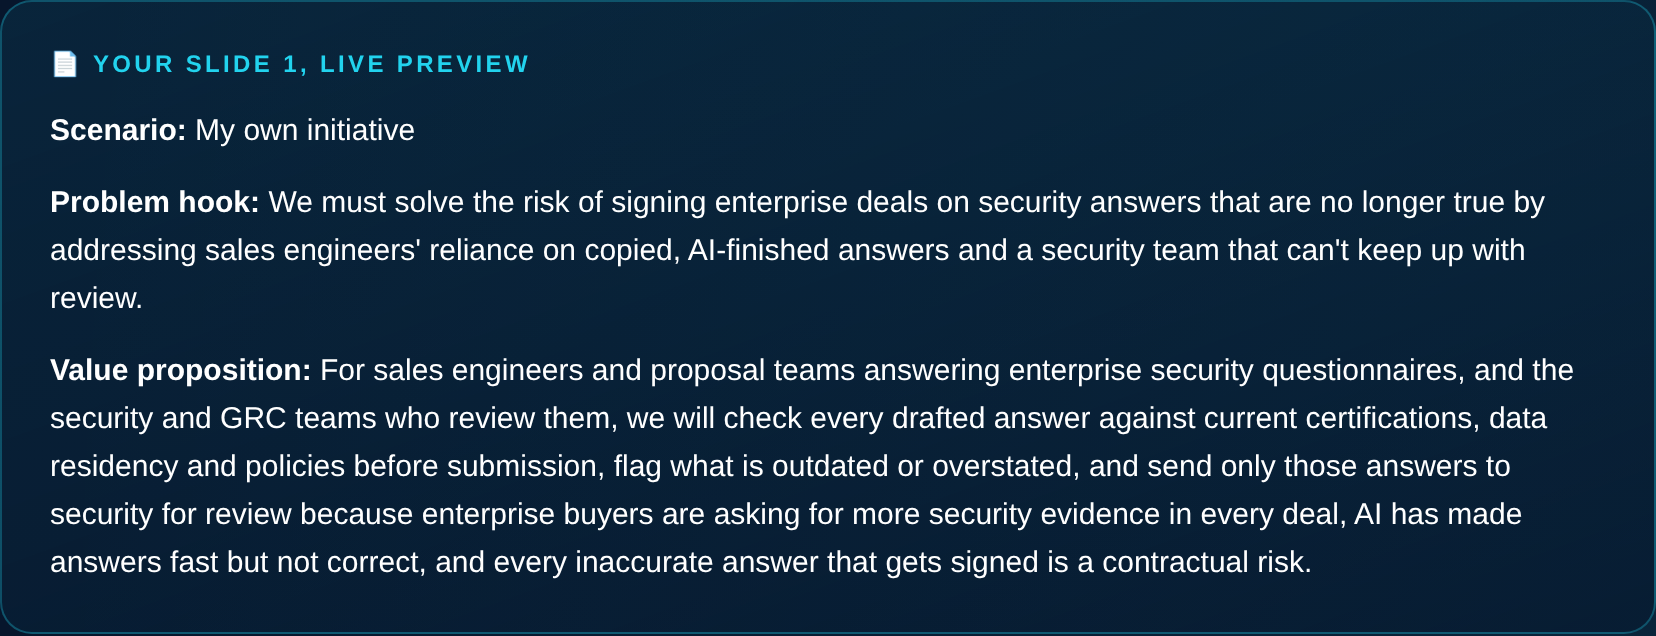
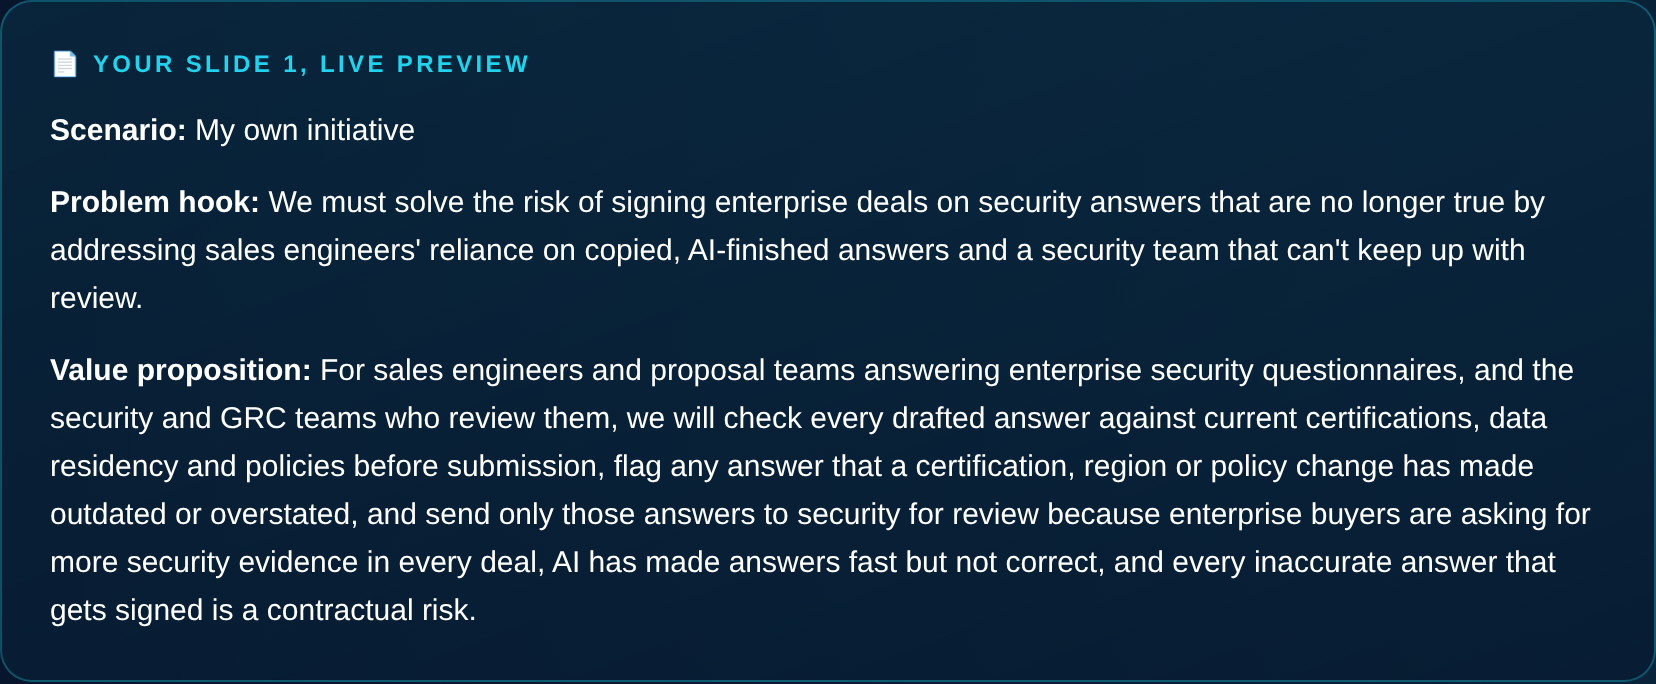
Module 1: sharpen differentiation against AI answer tools
Reframe the value proposition and cold-read answer around answers that a
certification, region or policy change has made stale, since AI answer
tools such as Conveyor already favour recent sources. Regenerate the
Exercise 2 guide export, Problem Hook Builder export and Slide 1 preview.

Claude-Session: https://claude.ai/code/session_01QMc48P4YbDKrGwoSAtmw3U

diff --git a/01-product-thinking/exercise-2-guide-export.md b/01-product-thinking/exercise-2-guide-export.md
@@ -5,9 +5,9 @@
 - **Strategic crisis, based on the brief, if the company does nothing for 12 months, what happens to its market position?:** If we do nothing for 12 months, the company will keep submitting security answers that were true last year: an expired certification scope, a data residency option still in beta, a policy that has since changed. Those answers become part of the contract. Enterprise buyers who find a mismatch in due diligence or audit slow the deal or walk away, a wrong answer that gets signed becomes legal exposure, and the security team spends more of its week reviewing sales paperwork than securing the product. Questionnaire turnaround becomes the slowest step in late-stage deals.
 - **Moment of misery, what is the user likely doing outside the product (Google, spreadsheets, a competitor) because your tool isn’t serving them?:** The user is currently forced to paste answers from a questionnaire done eight months ago and let an AI assistant fill the gaps on a 250-question questionnaire due Friday. For a dozen answers they aren't sure (is EU data residency live yet? does the SOC 2 report cover the new product?), so they post in the security team's Slack channel and wait days, because security is answering the same questions for five other deals. Under deadline, some answers go out unchecked.
 - **Problem hook, summarize the business risk and user pain into one urgent sentence.:** We must solve the risk of signing enterprise deals on security answers that are no longer true by addressing sales engineers' reliance on copied, AI-finished answers and a security team that can't keep up with review.
-- **Value proposition, based on the proposed initiative (Spotlight or Velocity), what is the new value and why is it urgent to launch now?:** For sales engineers and proposal teams answering enterprise security questionnaires, and the security and GRC teams who review them, we will check every drafted answer against current certifications, data residency and policies before submission, flag what is outdated or overstated, and send only those answers to security for review because enterprise buyers are asking for more security evidence in every deal, AI has made answers fast but not correct, and every inaccurate answer that gets signed is a contractual risk.
+- **Value proposition, based on the proposed initiative (Spotlight or Velocity), what is the new value and why is it urgent to launch now?:** For sales engineers and proposal teams answering enterprise security questionnaires, and the security and GRC teams who review them, we will check every drafted answer against current certifications, data residency and policies before submission, flag any answer that a certification, region or policy change has made outdated or overstated, and send only those answers to security for review because enterprise buyers are asking for more security evidence in every deal, AI has made answers fast but not correct, and every inaccurate answer that gets signed is a contractual risk.
 
 ## Cold-read your own hook
 - **Is the business risk high enough to justify a new initiative, a high-stakes threat, or a minor inconvenience?:** Yes. Answers become contract terms, delays hit late-stage revenue, and a wrong answer is legal and reputational exposure.
 - **Is the moment of misery a systemic problem or just an edge case?:** Systemic. Nearly every enterprise deal includes a questionnaire, and the posture changes whenever a certification, region or policy changes.
-- **Does the value proposition actually remove the obstacle you identified, or is it a generic feature?:** It targets the specific gap: answer libraries store past answers, but nobody checks whether an answer is still true today before it's submitted. Module 2 needs to prove that difference against answer-library and trust-centre tools.
+- **Does the value proposition actually remove the obstacle you identified, or is it a generic feature?:** It targets the gap AI answer tools leave. They draft answers from whatever documents have been uploaded, and their freshness depends on someone uploading current ones. Nothing flags when a certification, region or policy change has made an answer the team already relies on untrue. This check is triggered by the change, not by the next upload. Module 2 needs to prove that against AI answer tools (Conveyor, Loopio, Responsive) and trust centres.

diff --git a/01-product-thinking/problem-hook.md b/01-product-thinking/problem-hook.md
@@ -25,7 +25,7 @@ Short version: *Our security questionnaire answers are copied from the past and 
 
 ## 5. Value proposition
 
-> For **sales engineers and proposal teams answering enterprise security questionnaires, and the security and GRC teams who review them**, we will **check every drafted answer against current certifications, data residency and policies before submission, flag what is outdated or overstated, and send only those answers to security for review** because **enterprise buyers are asking for more security evidence in every deal, AI has made answers fast but not correct, and every inaccurate answer that gets signed is a contractual risk**.
+> For **sales engineers and proposal teams answering enterprise security questionnaires, and the security and GRC teams who review them**, we will **check every drafted answer against current certifications, data residency and policies before submission, flag any answer that a certification, region or policy change has made outdated or overstated, and send only those answers to security for review** because **enterprise buyers are asking for more security evidence in every deal, AI has made answers fast but not correct, and every inaccurate answer that gets signed is a contractual risk**.
 
 ## 6. Cold-read self-review
 
@@ -33,7 +33,7 @@ Short version: *Our security questionnaire answers are copied from the past and 
 |---|---|
 | Is the business risk high-stakes enough to justify a new initiative? | Yes. Answers become contract terms, delays hit late-stage revenue, and a wrong answer is legal and reputational exposure. |
 | Is the moment of misery systemic, or just an edge case? | Systemic. Nearly every enterprise deal includes a questionnaire, and the posture changes whenever a certification, region or policy changes. |
-| Does the value proposition actually remove the obstacle? | It targets the specific gap: answer libraries store past answers, but nobody checks whether an answer is still true today before it's submitted. Module 2 needs to prove that difference against answer-library and trust-centre tools. |
+| Does the value proposition actually remove the obstacle? | It targets the gap AI answer tools leave. They draft answers from whatever documents have been uploaded, and their freshness depends on someone uploading current ones. Nothing flags when a certification, region or policy change has made an answer the team already relies on untrue. This check is triggered by the change, not by the next upload. Module 2 needs to prove that against AI answer tools (Conveyor, Loopio, Responsive) and trust centres. |
 
 ## 7. Finalized hypothesis _(complete in Module 3)_
 

diff --git a/01-product-thinking/problem-hook-builder-export.md b/01-product-thinking/problem-hook-builder-export.md
@@ -12,9 +12,9 @@ The user is currently forced to paste answers from a questionnaire done eight mo
 We must solve the risk of signing enterprise deals on security answers that are no longer true by addressing sales engineers' reliance on copied, AI-finished answers and a security team that can't keep up with review.
 
 ## Value proposition
-For sales engineers and proposal teams answering enterprise security questionnaires, and the security and GRC teams who review them, we will check every drafted answer against current certifications, data residency and policies before submission, flag what is outdated or overstated, and send only those answers to security for review because enterprise buyers are asking for more security evidence in every deal, AI has made answers fast but not correct, and every inaccurate answer that gets signed is a contractual risk.
+For sales engineers and proposal teams answering enterprise security questionnaires, and the security and GRC teams who review them, we will check every drafted answer against current certifications, data residency and policies before submission, flag any answer that a certification, region or policy change has made outdated or overstated, and send only those answers to security for review because enterprise buyers are asking for more security evidence in every deal, AI has made answers fast but not correct, and every inaccurate answer that gets signed is a contractual risk.
 
 ## Cold-read self-review
 Is the business risk high-stakes enough to justify a new initiative? Yes. Answers become contract terms, delays hit late-stage revenue, and a wrong answer is legal and reputational exposure.
 Is the moment of misery systemic, or just an edge case? Systemic. Nearly every enterprise deal includes a questionnaire, and the posture changes whenever a certification, region or policy changes.
-Does the value proposition actually remove the obstacle? It targets the specific gap: answer libraries store past answers, but nobody checks whether an answer is still true today before it's submitted. Module 2 needs to prove that difference against answer-library and trust-centre tools.
+Does the value proposition actually remove the obstacle? It targets the gap AI answer tools leave. They draft answers from whatever documents have been uploaded, and their freshness depends on someone uploading current ones. Nothing flags when a certification, region or policy change has made an answer the team already relies on untrue. This check is triggered by the change, not by the next upload. Module 2 needs to prove that against AI answer tools (Conveyor, Loopio, Responsive) and trust centres.
